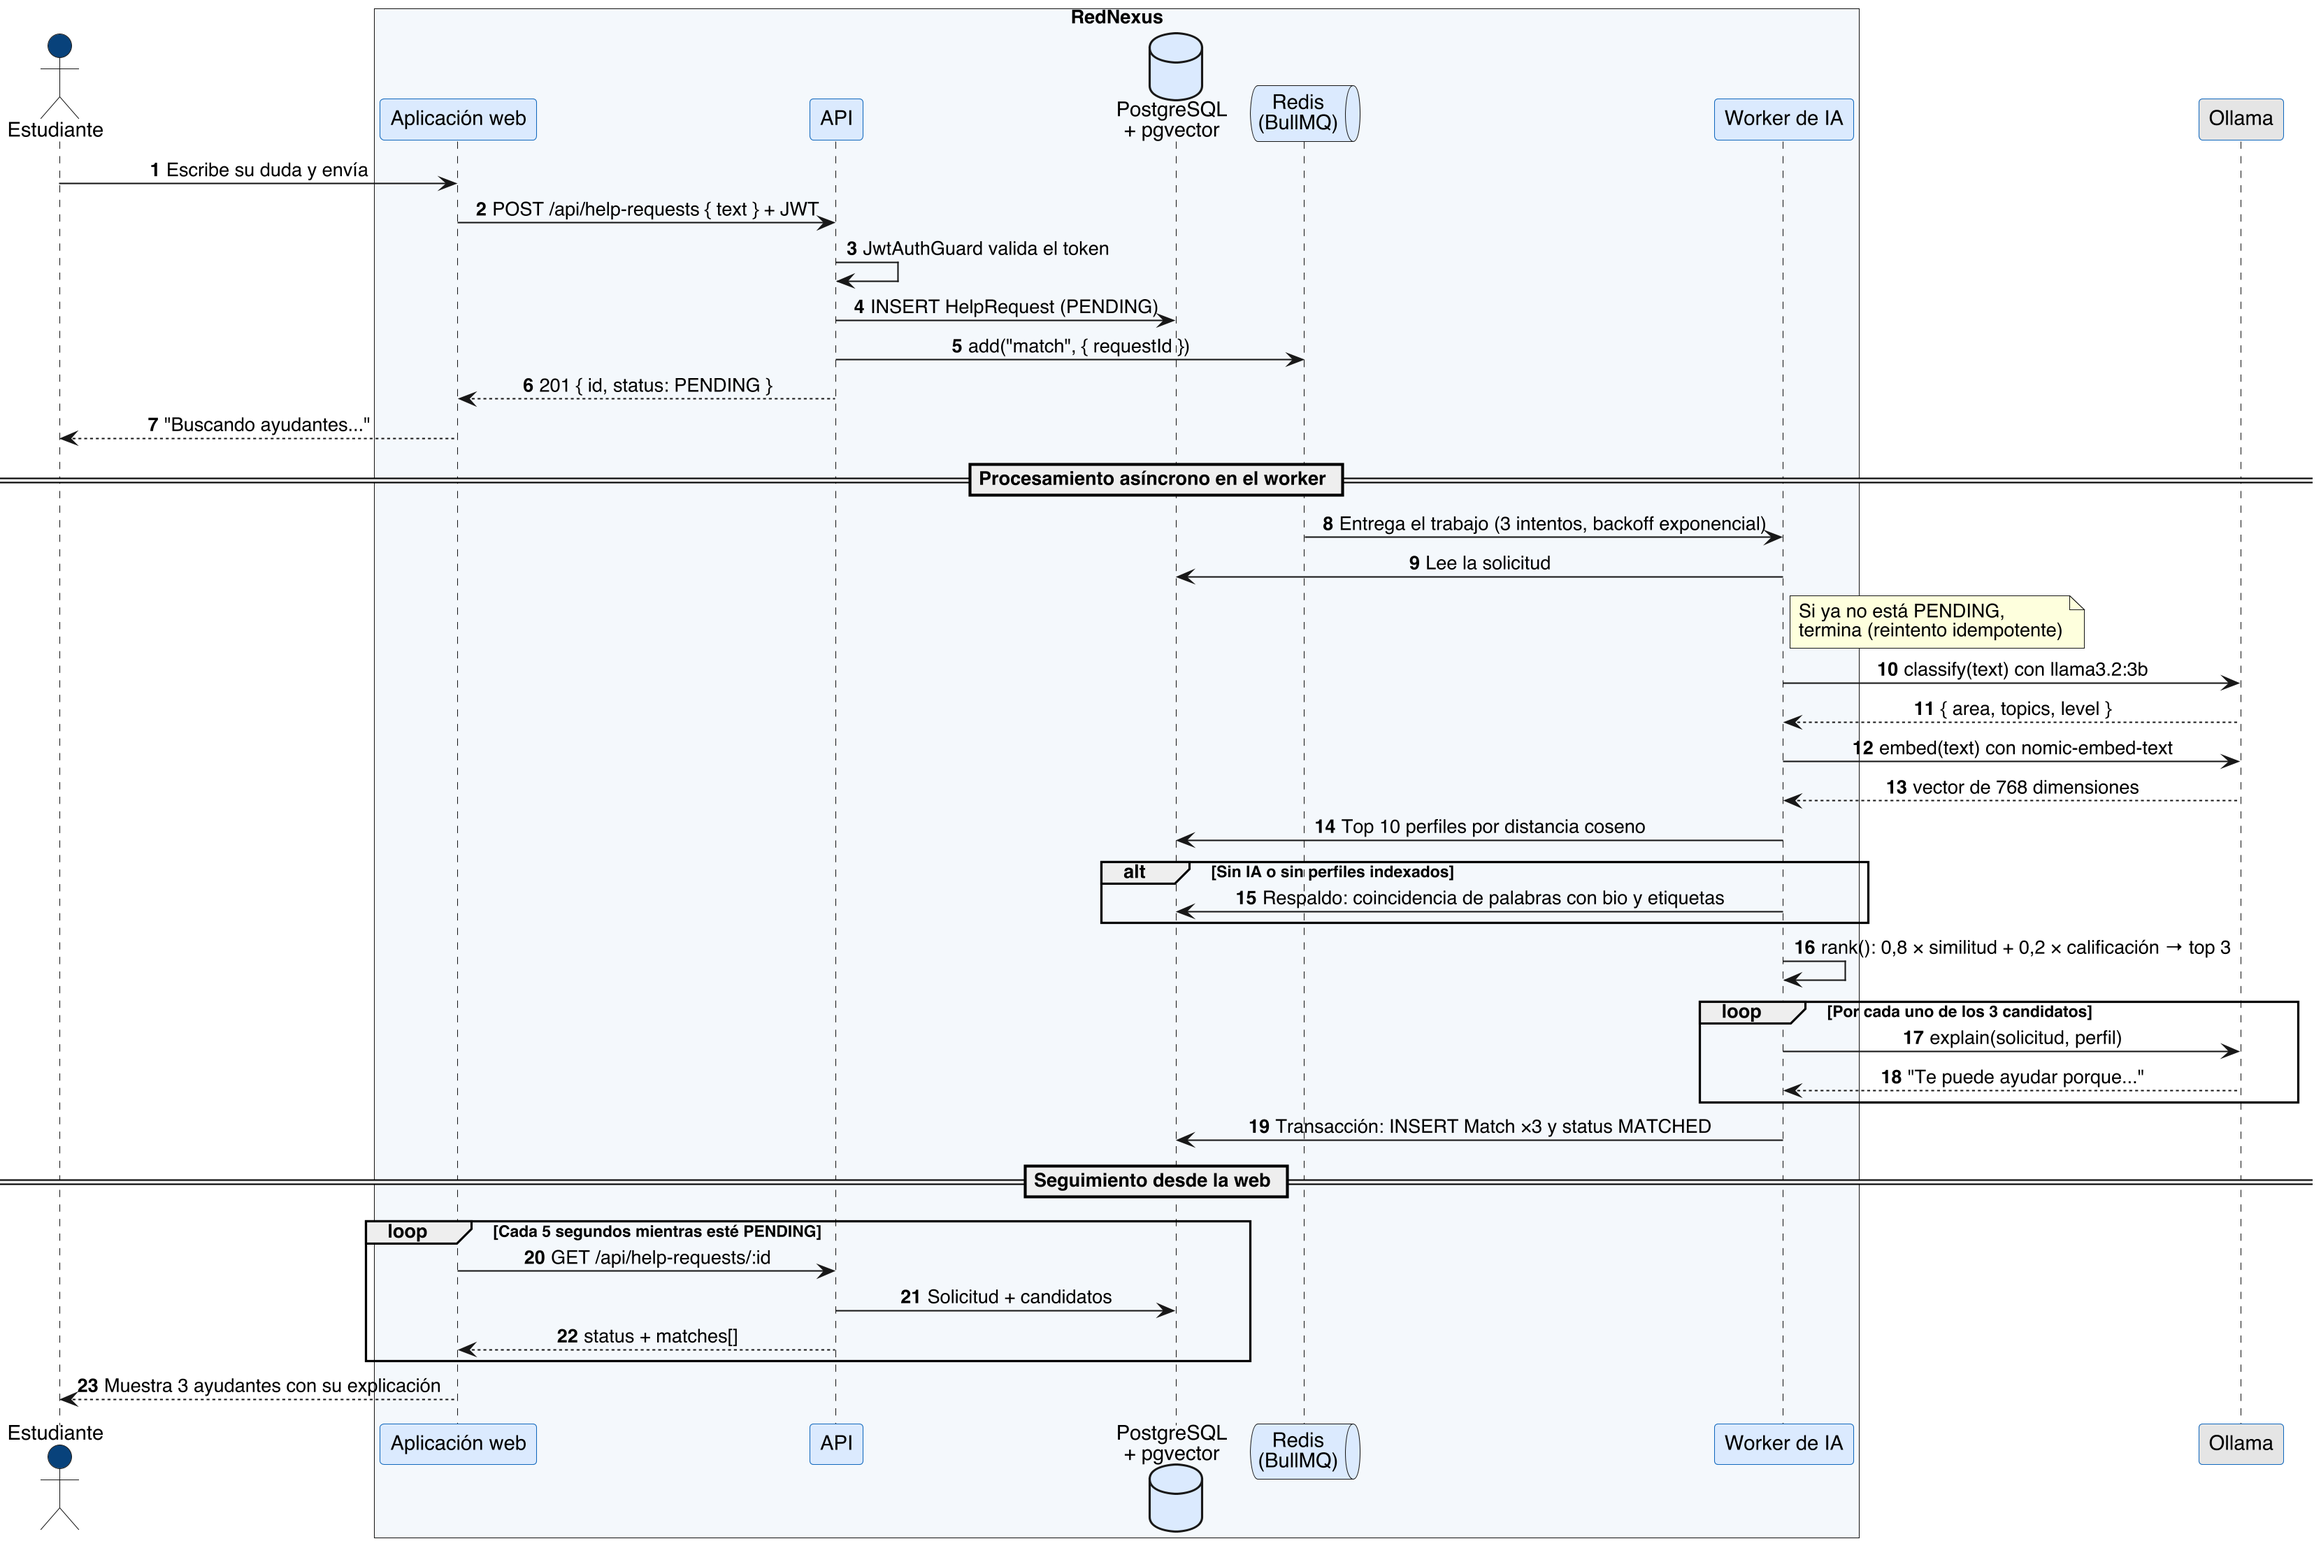
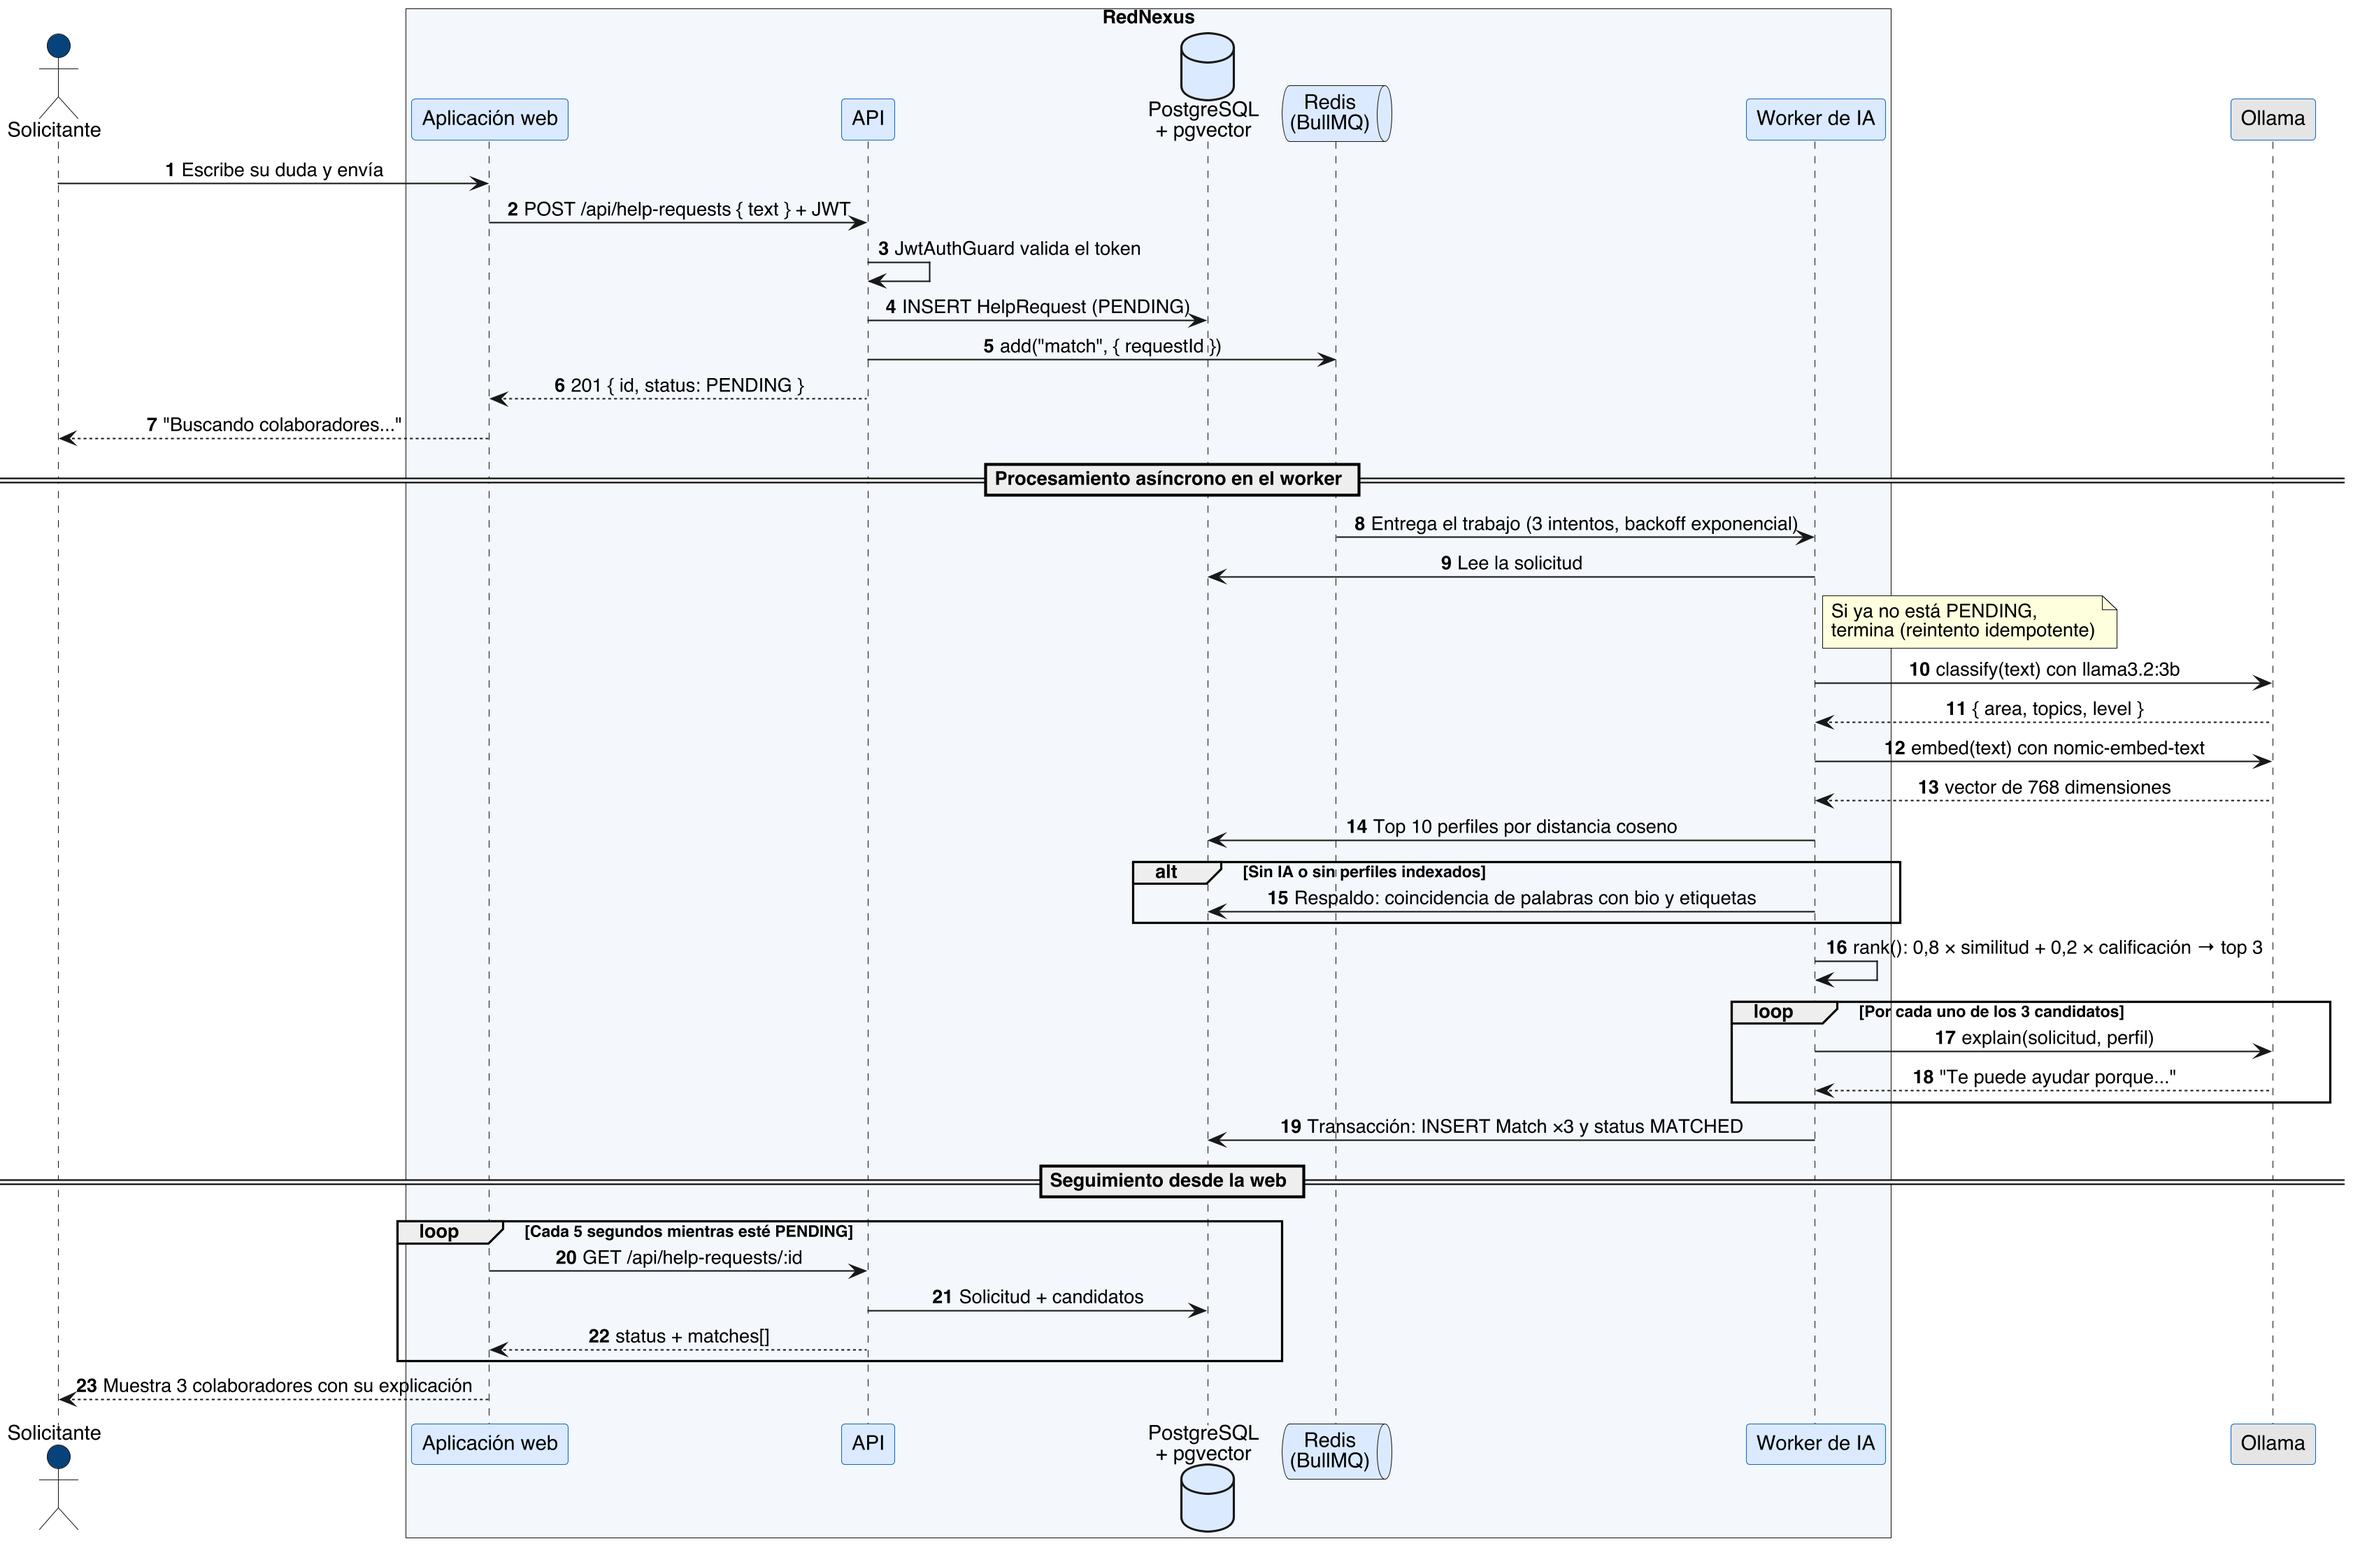
docs(arquitectura): términos solicitante y colaborador en diagramas
Unifica los diagramas y la documentación con el documento del proyecto: Ayudante pasa a Colaborador y Estudiante solicitante a Solicitante. Se regeneran los PNG afectados.

diff --git a/docs/arquitectura/diccionario-de-datos.md b/docs/arquitectura/diccionario-de-datos.md
@@ -15,7 +15,7 @@ Los **plazos de conservación** son una propuesta: el equipo debe aprobarlos y l
 | Campo | Tipo | Nulo | Restricción | Descripción | Clasificación | Protección | Conservación propuesta |
 | --- | --- | --- | --- | --- | --- | --- | --- |
 | id | uuid | No | PK | Identificador interno | Público | No revela orden ni cantidad de usuarios | Mientras exista la cuenta |
-| email | text | No | Único | Correo de acceso; se entrega al autor solo cuando un ayudante acepta | Personal | No se expone en `GET /users/:id`; solo viaja en `POST /matches/:id/accept` | Mientras exista la cuenta |
+| email | text | No | Único | Correo de acceso; se entrega al autor solo cuando un colaborador acepta | Personal | No se expone en `GET /users/:id`; solo viaja en `POST /matches/:id/accept` | Mientras exista la cuenta |
 | passwordHash | text | No | – | Hash bcrypt de la contraseña (8 a 72 caracteres) | Credencial | bcrypt con sal; nunca sale de la API | Mientras exista la cuenta |
 | name | text | No | – | Nombre visible | Personal | Visible solo para usuarios con sesión | Mientras exista la cuenta |
 | bio | text | Sí | – | Habilidades y experiencia en texto libre | Personal | Se procesa solo con IA local (Ollama), sin enviarla a terceros | Mientras exista la cuenta |
@@ -44,26 +44,26 @@ Los **plazos de conservación** son una propuesta: el equipo debe aprobarlos y l
 | --- | --- | --- | --- | --- | --- | --- | --- |
 | id | uuid | No | PK | Identificador | Público | – | Igual que la solicitud |
 | requestId | uuid | No | FK → HelpRequest; único con helperId | Solicitud | Público | – | Igual que la solicitud |
-| helperId | uuid | No | FK → User | Ayudante propuesto | Personal | Solo él ve la bandeja; solo él acepta o rechaza | Igual que la solicitud |
+| helperId | uuid | No | FK → User | Colaborador propuesto | Personal | Solo él ve la bandeja; solo él acepta o rechaza | Igual que la solicitud |
 | score | float | No | 0 a 1 | 0,8 × similitud + 0,2 × calificación | Personal derivado (perfilamiento) | Se explica al usuario (transparencia de la IA) | Igual que la solicitud |
 | explanation | text | Sí | – | Frase del LLM de por qué encaja | Personal derivado | Generada con IA local; respaldo por plantilla | Igual que la solicitud |
-| status | enum | No | PROPOSED, ACCEPTED, REJECTED | Respuesta del ayudante | Público | – | Igual que la solicitud |
+| status | enum | No | PROPOSED, ACCEPTED, REJECTED | Respuesta del colaborador | Público | – | Igual que la solicitud |
 | createdAt | timestamp | No | default now() | – | Público | – | Igual que la solicitud |
 
 ## Rating (calificación)
 
 | Campo | Tipo | Nulo | Restricción | Descripción | Clasificación | Protección | Conservación propuesta |
 | --- | --- | --- | --- | --- | --- | --- | --- |
-| id | uuid | No | PK | Identificador | Público | – | Mientras exista la cuenta del ayudante |
+| id | uuid | No | PK | Identificador | Público | – | Mientras exista la cuenta del colaborador |
 | requestId | uuid | No | FK → HelpRequest; **único** | Una calificación por solicitud | Público | Índice único en la base | Igual |
 | authorId | uuid | No | FK → User | Quién califica (solo el autor de la solicitud) | Personal | La API no expone las calificaciones individuales | Igual |
-| helperId | uuid | No | FK → User | Ayudante calificado | Personal | Solo se publica el promedio | Igual |
+| helperId | uuid | No | FK → User | Colaborador calificado | Personal | Solo se publica el promedio | Igual |
 | stars | int | No | 1 a 5 | Estrellas | Personal (evaluación) | Validado en la API | Igual |
 | createdAt | timestamp | No | default now() | – | Público | – | Igual |
 
 ## Embeddings e índice vectorial (RAG)
 
-- **Qué se vectoriza:** el perfil (`bio` + `tags`) y el texto de cada solicitud. No hay documentos aparte: los "documentos" del RAG son los perfiles de los ayudantes.
+- **Qué se vectoriza:** el perfil (`bio` + `tags`) y el texto de cada solicitud. No hay documentos aparte: los "documentos" del RAG son los perfiles de los colaboradores.
 - **Dónde se guarda:** en la misma tabla, columna `embedding vector(768)` de pgvector, así se borran junto con el dato de origen.
 - **Modelo:** `nomic-embed-text` en Ollama, local. Ningún dato sale a una API externa.
 - **Búsqueda:** distancia coseno (`<=>`), los 10 más cercanos, y luego `ranking.ts` deja el top 3. El texto de esos 3 perfiles es el contexto que recibe `llama3.2:3b` para escribir la explicación.

diff --git a/docs/arquitectura/diagramas.md b/docs/arquitectura/diagramas.md
@@ -71,7 +71,7 @@ Tomado de `RedNexus-Backend/prisma/schema.prisma`. El detalle de cada campo, su 
 
 ## 7. Casos de uso
 
-En el MVP un mismo usuario puede pedir y dar ayuda: *Estudiante solicitante* y *Ayudante* son especializaciones de *Usuario registrado* y heredan sus casos de uso.
+En el MVP un mismo usuario puede pedir y dar ayuda: *Solicitante* y *Colaborador* son especializaciones de *Usuario registrado* y heredan sus casos de uso.
 
 ![Casos de uso](img/07-casos-de-uso.png)
 
@@ -83,7 +83,7 @@ La API responde de inmediato con `PENDING`; el trabajo pesado ocurre en el worke
 
 ## 9. Secuencia: aceptar la ayuda y calificar
 
-Solo el primer ayudante que acepta se queda con la solicitud; los demás reciben un 409.
+Solo el primer colaborador que acepta se queda con la solicitud; los demás reciben un 409.
 
 ![Secuencia de aceptar y calificar](img/09-secuencia-aceptar-calificar.png)
 
